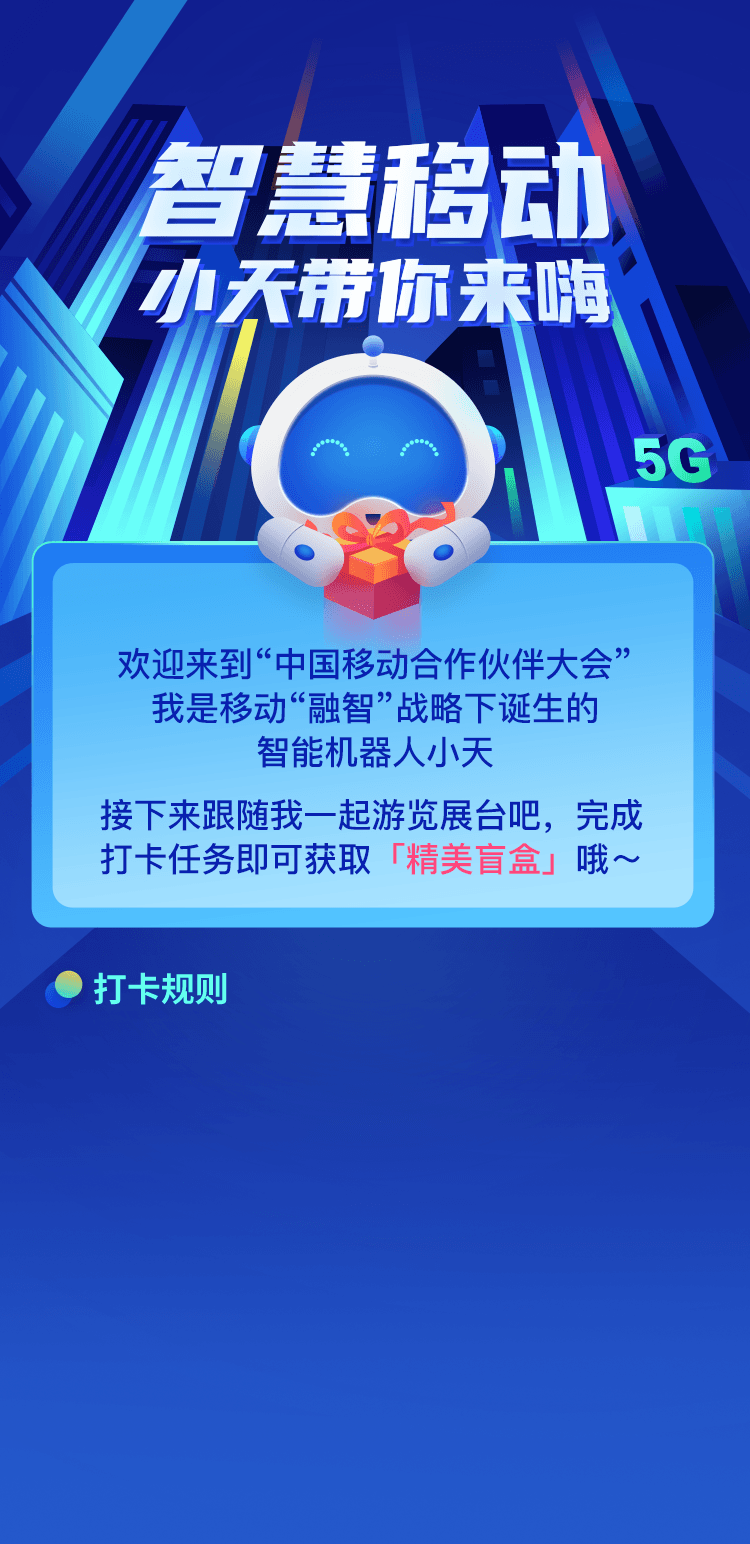
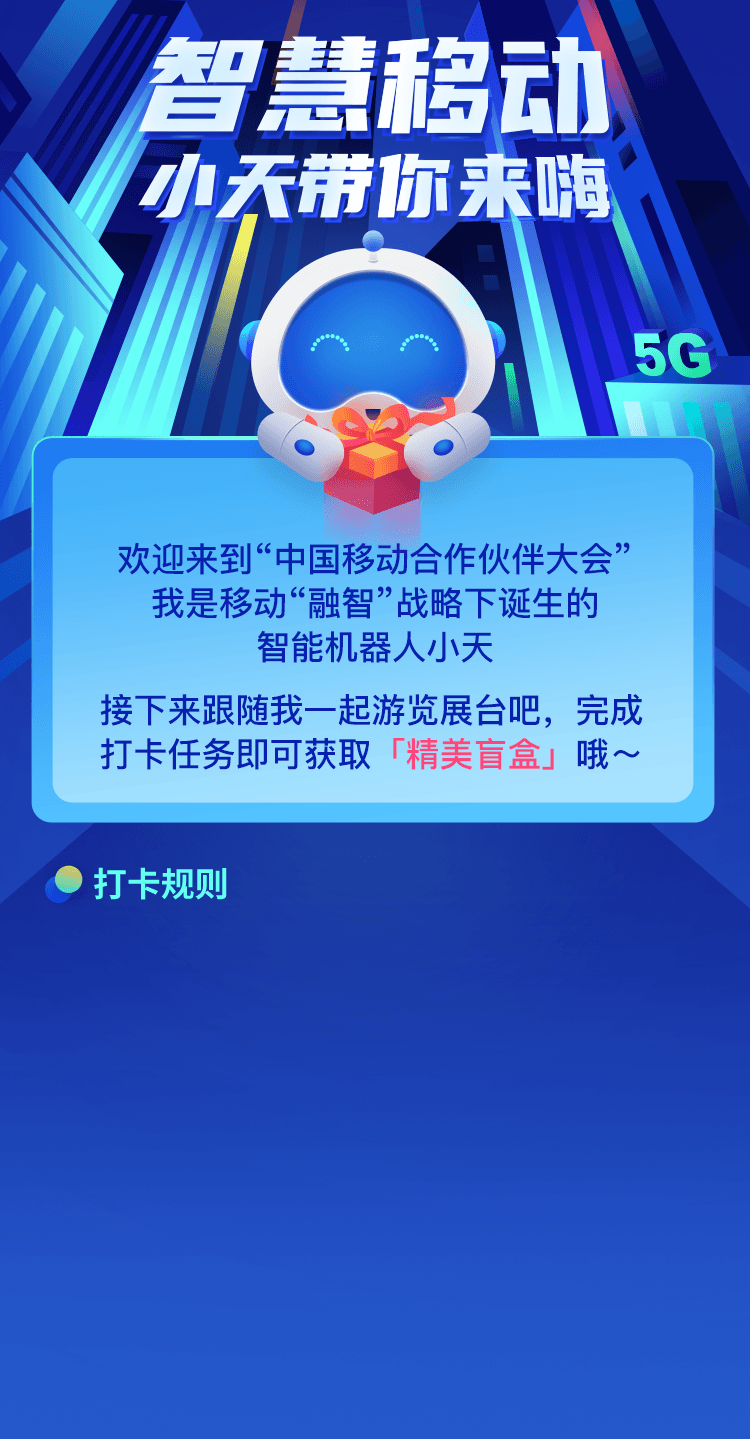
style

diff --git a/src/views/Result/Result.vue b/src/views/Result/Result.vue
@@ -37,7 +37,7 @@
         >
           <img
             style="width: 85%"
-            :class="{ rotate: resultRobotLogoShow }"
+            :class="{ xiaotian: true, rotate: resultRobotLogoShow }"
             src="@/assets/images/result_robot.png"
             alt="小天机器人logo"
             v-if="resultRobotLogoShow"

diff --git a/src/views/Result/components/ResultForm.vue b/src/views/Result/components/ResultForm.vue
@@ -250,8 +250,13 @@ export default {
       left: 45%;
       bottom: 0;
       font-size: 34px;
+      background: url("../../../assets/images/close.png") no-repeat;
+      background-size: 34px 34px;
     }
   }
+    .van-icon-close::before {
+      color: transparent;
+    }
   .wrap {
     width: 330px;
     height: 448px;

diff --git a/src/views/Robotpage/components/Popupinfo.vue b/src/views/Robotpage/components/Popupinfo.vue
@@ -55,6 +55,11 @@
       left: 45%;
       bottom: 1%;
       font-size: 34px;
+      background: url("../../../assets/images/close.png") no-repeat;
+      background-size: 34px 34px;
+    }
+    .van-icon-close::before {
+      color: transparent;
     }
     .my-swipe {
       height: 342px;

diff --git a/src/views/home/index.vue b/src/views/home/index.vue
@@ -65,7 +65,7 @@ export default {
     }
     .index-content {
         position: absolute;
-        top: 515px;
+        top: 467px;
         z-index: 2;
         .index-rules {
           font-size: 14px;
